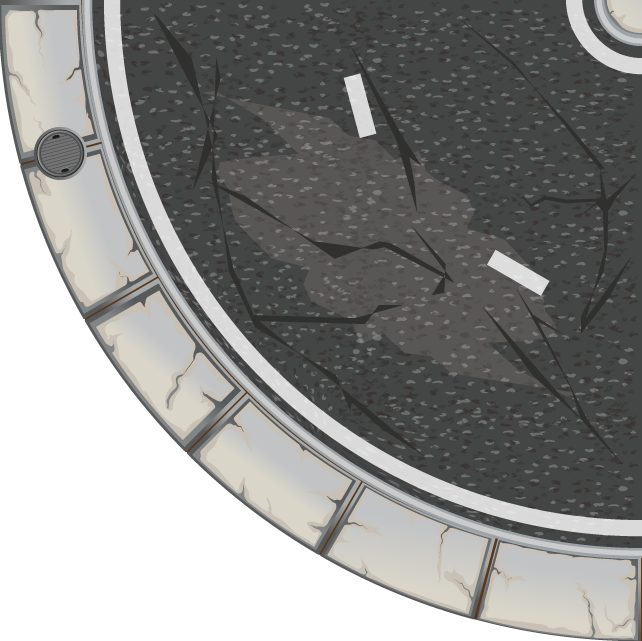
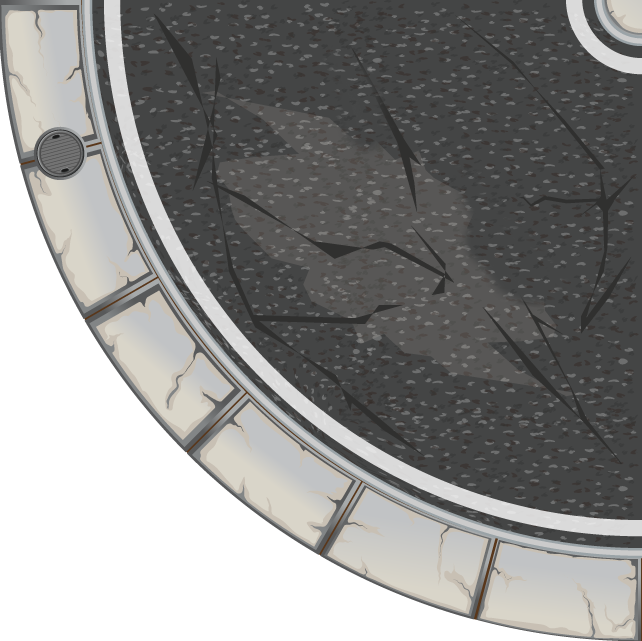
Agrega tiles

Changed region(s): [[0.7477, 0.3432, 0.8723, 0.468], [0.5296, 0.0936, 0.5919, 0.2184]]

diff --git a/src/client/TileMap.cpp b/src/client/TileMap.cpp
@@ -19,28 +19,42 @@ window(window) {;
             this->tiles.emplace_back(std::move(Tile(window, TILE_0, x, y,  TILE_HEIGHT, TILE_WIDTH)));
             if (j == THIRD_QUAD_TRACK) {
                 this->tiles.emplace_back(std::move(Tile(window, TILE_1, x, y,  TILE_HEIGHT, TILE_WIDTH)));
-            }
-            else if (j == SECOND_QUAD_TRACK) {
+
+            } else if (j == SECOND_QUAD_TRACK) {
                 this->tiles.emplace_back(std::move(Tile(window, TILE_2, x, y, TILE_HEIGHT, TILE_WIDTH)));
-            }
-            else if (j == FOURTH_QUAD_TRACK) {
+
+            } else if (j == FOURTH_QUAD_TRACK) {
                 this->tiles.emplace_back(std::move(Tile(window, TILE_3, x, y, TILE_HEIGHT, TILE_WIDTH)));
-            }
-            else if (j == FIRST_QUAD_TRACK) {
+
+            } else if (j == FIRST_QUAD_TRACK) {
                 this->tiles.emplace_back(std::move(Tile(window, TILE_4, x, y,  TILE_HEIGHT, TILE_WIDTH)));
-            }
-            else if (j == LEFT_TRACK) {
+
+            } else if (j == LEFT_TRACK) {
                 this->tiles.emplace_back(std::move(Tile(window, TILE_5, x, y,  TILE_HEIGHT, TILE_WIDTH)));
-            }
-            else if (j == RIGHT_TRACK) {
+
+            } else if (j == RIGHT_TRACK) {
                 this->tiles.emplace_back(std::move(Tile(window, TILE_6, x, y,  TILE_HEIGHT, TILE_WIDTH)));
-            }
-            else if (j == UP_TRACK) {
+
+            } else if (j == UP_TRACK) {
                 this->tiles.emplace_back(std::move(Tile(window, TILE_7, x, y,  TILE_HEIGHT, TILE_WIDTH)));
-            }
-            else if (j == DOWN_TRACK) {
+
+            } else if (j == DOWN_TRACK) {
                 this->tiles.emplace_back(std::move(Tile(window, TILE_8, x, y,  TILE_HEIGHT, TILE_WIDTH)));
+
+            } else if (j == LEFT_CHECKPOINTED_TRACK) {
+                this->tiles.emplace_back(std::move(Tile(window, TILE_13, x, y,  TILE_HEIGHT, TILE_WIDTH)));
+
+            } else if (j == RIGHT_CHECKPOINTED_TRACK) {
+                this->tiles.emplace_back(std::move(Tile(window, TILE_12, x, y,  TILE_HEIGHT, TILE_WIDTH)));
+
+            } else if (j == UP_CHECKPOINTED_TRACK) {
+                this->tiles.emplace_back(std::move(Tile(window, TILE_11, x, y,  TILE_HEIGHT, TILE_WIDTH)));
+
+            } else if (j == DOWN_CHECKPOINTED_TRACK) {
+                this->tiles.emplace_back(std::move(Tile(window, TILE_10, x, y,  TILE_HEIGHT, TILE_WIDTH)));
+
             }
+
             x += (MtoP * TILE_WIDTH);
         }
         y += (MtoP * TILE_HEIGHT);

diff --git a/src/client/TileMap.h b/src/client/TileMap.h
@@ -9,7 +9,7 @@
 #include <iostream>
 #include <json.hpp>
 
-#define TILE_0 "../media/tiles/Grass_Tile.png"
+#define TILE_0 "../media/tiles/00_Road.png"
 #define TILE_1 "../media/tiles/01_Road.png"
 #define TILE_2 "../media/tiles/02_Road.png"
 #define TILE_3 "../media/tiles/03_Road.png"
@@ -18,6 +18,12 @@
 #define TILE_6 "../media/tiles/06_Road.png"
 #define TILE_7 "../media/tiles/07_Road.png"
 #define TILE_8 "../media/tiles/08_Road.png"
+#define TILE_9 "../media/tiles/09_Road.png"
+#define TILE_10 "../media/tiles/10_Road.png"
+#define TILE_11 "../media/tiles/11_Road.png"
+#define TILE_12 "../media/tiles/12_Road.png"
+#define TILE_13 "../media/tiles/13_Road.png"
+#define TILE_14 "../media/tiles/14_Road.png"
 
 class TileMap: public Entity{
     private:
